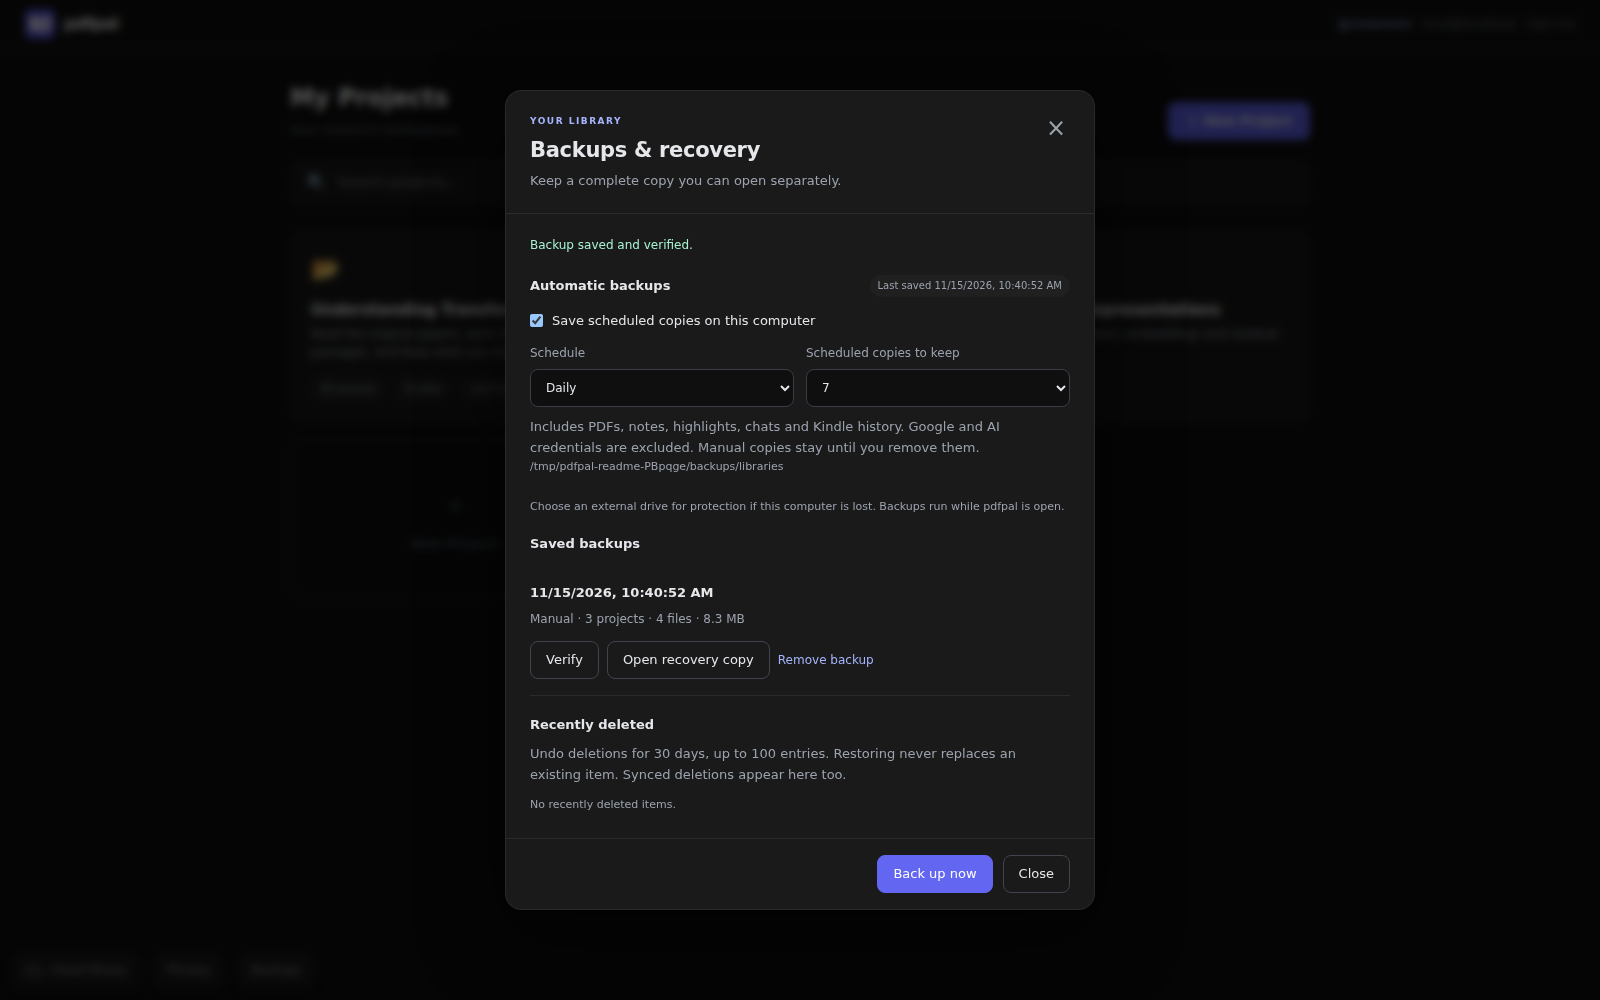
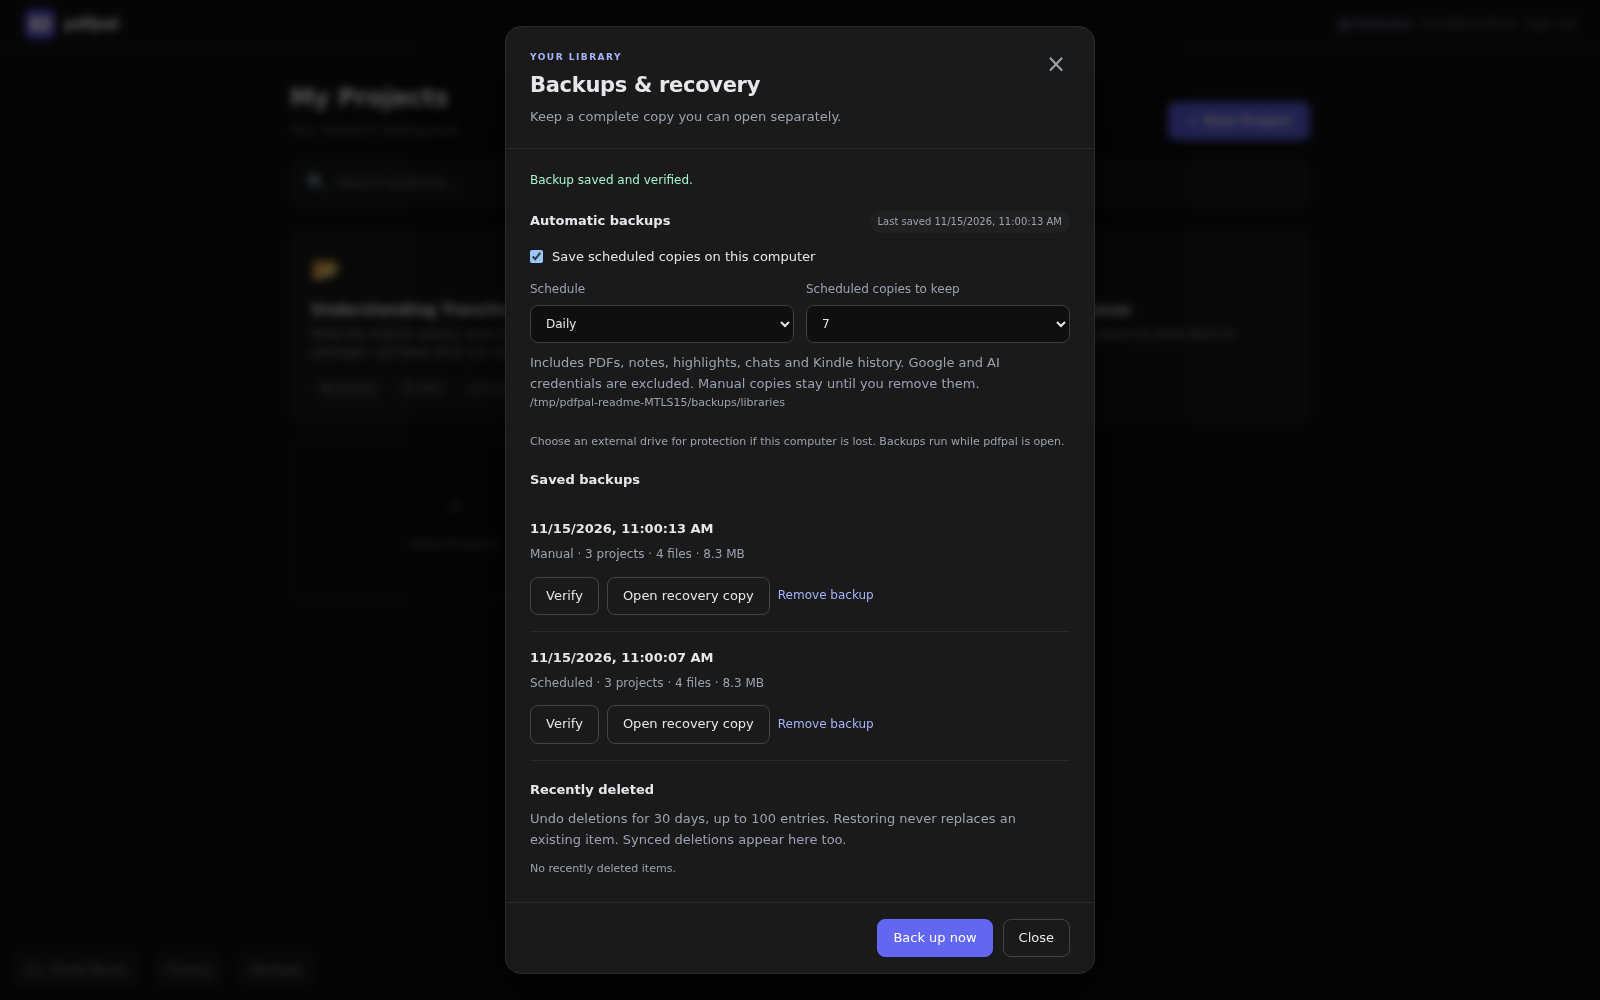
docs: cover the newly merged shared Linux menu

diff --git a/README.md b/README.md
@@ -120,7 +120,7 @@ The Windows installer is currently an **unsigned engineering preview**, so Windo
 
 The x86-64 Debian package targets Mint 22/Ubuntu 24.04, with X11 as the initial validation environment. Download the `.deb`, `pdfpal-linux-release.json` and `SHA256SUMS-linux.txt` from the [Linux preview release](https://github.com/andrepaim/pdfpal/releases/tag/linux-desktop-v2.8.0-beta.5.linux.1), then check `sha256sum -c SHA256SUMS-linux.txt` in the download directory. Newer engineering artifacts are available from [CI](https://github.com/andrepaim/pdfpal/actions/workflows/ci.yml), or build from source using the [Linux quickstart](docs/linux-quickstart.md). Linux publication is separate from the automatic Windows release pipeline.
 
-Install with `sudo apt install ./pdfpal-<version>-amd64.deb`, then open **pdfpal** from the application menu. The app includes its runtime and a separate `pdfpal-desktop-cli`; a system Node installation is unnecessary for those bundled tools. Node-based assistant CLIs may need their own runtime. Closing the Linux window quits the app. Account persistence requires a supported, unlocked OS keyring; local reading works without sign-in. Wayland, live account flows and clean-machine installation remain manual acceptance checks.
+Install with `sudo apt install ./pdfpal-<version>-amd64.deb`, then open **pdfpal** from the application menu. The app includes its runtime and a separate `pdfpal-desktop-cli`; a system Node installation is unnecessary for those bundled tools. Node-based assistant CLIs may need their own runtime. The shared **pdfpal menu** offers settings, backups, CLI setup, licenses and updates inside the native Linux window frame. **F10** opens it; **Ctrl+K** finds a project. Closing the Linux window quits the app. Account persistence requires a supported, unlocked OS keyring; local reading works without sign-in. Wayland, live account flows and clean-machine installation remain manual acceptance checks.
 
 ### Linux and WSL
 
@@ -174,7 +174,7 @@ After following a reference link within a PDF, click **Back to citation** in the
 
 ### Read a Kindle book
 
-1. Start pdfpal. On Windows, choose **pdfpal menu → Kindle extension**. In the browser reader, choose **Extension** on the projects home page (or **Kindle extension** in a project).
+1. Start pdfpal. In the Windows or Linux desktop app, choose **pdfpal menu → Kindle extension**. In the browser reader, choose **Extension** on the projects home page (or **Kindle extension** in a project).
 2. **Download Chrome extension**, extract it to a folder you will keep, and open `chrome://extensions`. Enable **Developer mode**, choose **Load unpacked**, and select the extracted folder containing `manifest.json`.
 3. Pin pdfpal to Chrome's toolbar. Open your book in [Kindle for Web](https://read.amazon.com/), refresh the tab, and click the pdfpal toolbar icon.
 4. Click **Connect to pdfpal**. In the local tab that opens, click **Allow connection**, then return to Kindle. Choose or create a project.
@@ -216,11 +216,11 @@ Select text in the PDF reader and choose **Explain visually** from its popup, or
 
 ### Backups, recovery & privacy
 
-Open **pdfpal menu → Backups & recovery** on Windows, or **Backups** at the lower left in the browser reader. Save a complete local library copy, including managed PDFs, notes, highlights, saved conversations and visual explanations. Automatic backups run daily by default while the app is open; choose every six hours, daily or weekly. Verify a backup or open a separate recovery copy while keeping your current library. **Recently deleted** retains up to 100 deletion entries for 30 days. See [backup and recovery](docs/backup-recovery.md).
+Open **pdfpal menu → Backups & recovery** in the Windows or Linux desktop app, or **Backups** at the lower left in the browser reader. Save a complete local library copy, including managed PDFs, notes, highlights, saved conversations and visual explanations. Automatic backups run daily by default while the app is open; choose every six hours, daily or weekly. Verify a backup or open a separate recovery copy while keeping your current library. **Recently deleted** retains up to 100 deletion entries for 30 days. See [backup and recovery](docs/backup-recovery.md).
 
 ![Current browser backup settings showing a verified local library copy and recovery controls](screenshots/backups-recovery.png)
 
-**Privacy & diagnostics** in the Windows app menu (or **Privacy** in the browser) separates local diagnostics, optional usage analytics and default-off error sharing. Shared error reports exclude documents, conversations, titles, filenames and raw error messages. See [error reporting](docs/error-reports.md).
+**Privacy & diagnostics** in the desktop app menu (or **Privacy** in the browser) separates local diagnostics, optional usage analytics and default-off error sharing. Shared error reports exclude documents, conversations, titles, filenames and raw error messages. See [error reporting](docs/error-reports.md).
 
 ### Sources & Discovery
 

diff --git a/docs/documentation-review.md b/docs/documentation-review.md
@@ -1,6 +1,6 @@
 # Documentation review — November 15, 2026
 
-Reviewed the default branch, `master`, starting at `a402cec` (PRs through #20). Checked the README, desktop/extension guides, CLI skill, contributor guide, current runbooks, plans/evidence, version/build scripts and the reader implementation. Historical milestone receipts keep their dates and measured results; unmerged Mac/mobile/share-card work is not presented as shipped.
+Reviewed the default branch, `master`, starting at `a402cec` (PRs through #20), then incorporating `7473cff` (PR #22, shared Linux app menu). Checked the README, desktop/extension guides, CLI skill, contributor guide, current runbooks, plans/evidence, version/build scripts and the reader implementation. Historical milestone receipts keep their dates and measured results; unmerged Mac/mobile/share-card work is not presented as shipped.
 
 | Finding | Improvement |
 | --- | --- |
@@ -8,7 +8,7 @@ Reviewed the default branch, `master`, starting at `a402cec` (PRs through #20). 
 | The README still showed the original visual format and its old export | Captured the current figure renderer, progressive token grids and expanded query/key plot; replaced the downloadable HTML using the app's own exporter. |
 | New visual controls and persistence limits were hard to discover | Added a [visual guide](visual-explanations.md), covering progress segments, arrow keys, named details, expansion, transcripts, offline export, retry and local-only assets. Updated the companion guide's obsolete control names. |
 | The dictionary had only a feature-list mention | Added a [reader guide](reader-guide.md) and a dictionary screenshot, including English-only scope, compound/base-form behavior and no-provider lookup. |
-| Windows instructions named old installer versions; Linux installation was buried | Replaced stale “current” version examples, documented Linux preview release downloads and CI artifacts, runtime/CLI/lifecycle/keyring differences, and corrected the platform architecture. Kept experimental/manual gates explicit. |
+| Windows instructions named old installer versions; Linux installation was buried | Replaced stale “current” version examples, documented Linux preview release downloads and CI artifacts, runtime/CLI/lifecycle/keyring differences, and corrected the platform architecture. Included the newly merged Linux shared menu, keyboard navigation and native-frame/recovery-menu behavior. Kept experimental/manual gates explicit. |
 | The README omitted the new account-library choice and mismatch recovery | Documented one library per Google account, explicit legacy selection and separate restore without merging or deleting original local work. Updated recovery/privacy entry points for desktop/browser. |
 | The shipped automation skill assumed every desktop was Windows | Added a Linux reference and routing to `pdfpal-desktop-cli`, retaining fingerprint guards, operation receipts and note concurrency checks. |
 | Contributor guidance omitted merged work and understated CI | Updated the developer guide for Linux transport, current feature scope and Firebase/extension/package/platform checks. Removed the README's inaccurate claim that reading subprocesses can browse the web. |

diff --git a/docs/linux-quickstart.md b/docs/linux-quickstart.md
@@ -29,7 +29,7 @@ Electron's renderer sandbox remains enabled. Do not launch with `--no-sandbox`. 
 
 The shared default library stays at `~/.pdfpal`. Desktop configuration lives at `${XDG_CONFIG_HOME:-~/.config}/pdfpal-desktop`; a `PDFPAL_DESKTOP_PROFILE` or `--profile` override selects a separate profile. A profile registers its active library and authenticated local CLI endpoint. Avoid concurrently opening the same SQLite library from multiple app instances or standalone servers.
 
-Linux exposes application actions in the native menu, including assistant setup, CLI setup, software updates, diagnostics and quitting. A tray icon is optional because support varies by desktop. Closing the Linux window quits safely rather than depending on an invisible tray icon. Background startup is opt-in under **Start at login**. It creates a user-owned XDG autostart desktop entry and removes only pdfpal's managed entry when disabled; the library remains intact. On Linux a login launch keeps a visible window available.
+Linux keeps the window manager’s native title bar and controls, with the compact **pdfpal menu** toolbar inside the frame. The toolbar provides reading history, project search, cloud access and help, sharing the Windows app’s actions without drawing Windows caption buttons. **F10** opens the menu; arrow keys/Home/End navigate it and Escape closes it. **Ctrl+K** finds a project, **Alt+Left/Right** retraces reading history, **Ctrl+,** opens AI settings, and **Ctrl+Q** quits. Backups, privacy/diagnostics, CLI setup, Kindle, updates, licenses and **Start at login** are in this menu. The traditional native menu remains available during startup/recovery and is hidden when the reader’s shared menu is active. A tray icon is optional because support varies by desktop. Closing the Linux window quits safely rather than depending on an invisible tray icon. Background startup is opt-in under **Start at login**. It creates a user-owned XDG autostart desktop entry and removes only pdfpal's managed entry when disabled; the library remains intact. On Linux a login launch keeps a visible window available.
 
 ## Assistants and account protection
 

diff --git a/desktop/README.md b/desktop/README.md
@@ -1,6 +1,6 @@
 # pdfpal desktop preview
 
-The Linux engineering preview now builds an unpacked application and Debian installer, with native menus, XDG preferences and opt-in autostart, secure keyring checks and an independent bundled CLI. See the [Linux quickstart](../docs/linux-quickstart.md), [milestone plan](../docs/linux-desktop-plan.md), and [acceptance results](../docs/linux-desktop-results.md). The Windows build and release procedures below remain in place.
+The Linux engineering preview now builds an unpacked application and Debian installer, with a compact shared app menu inside its native window frame, XDG preferences and opt-in autostart, secure keyring checks and an independent bundled CLI. See the [Linux quickstart](../docs/linux-quickstart.md), [milestone plan](../docs/linux-desktop-plan.md), and [acceptance results](../docs/linux-desktop-results.md). The Windows build and release procedures below remain in place.
 
 The Windows desktop includes a per-user installer, integrated app menu, direct ChatGPT sign-in, assistant discovery, bundled CLI/skill setup, local recovery and optional cloud sync. The milestone results below record how its installer and lifecycle were validated. See the [Windows quickstart](../docs/windows-quickstart.md), [M3 results](../docs/windows-m3-results.md), and [implementation plan](../docs/windows-desktop-plan.md).
 

diff --git a/docs/README.md b/docs/README.md
@@ -36,7 +36,7 @@ The current desktop targets are Windows x64 and a Linux x86-64 engineering previ
 
 Plans mix completed milestones with future work; use the guides above for current behavior. Results and evidence are dated receipts, not statements that the current build has passed every manual acceptance gate.
 
-- Desktop: [Windows plan](windows-desktop-plan.md), [M0](windows-m0-results.md), [M1](windows-m1-results.md), [M2](windows-m2-results.md), [M3](windows-m3-results.md), [M4](windows-m4-results.md); [Linux plan](linux-desktop-plan.md) and [results](linux-desktop-results.md).
+- Desktop: [Windows plan](windows-desktop-plan.md), [M0](windows-m0-results.md), [M1](windows-m1-results.md), [M2](windows-m2-results.md), [M3](windows-m3-results.md), [M4](windows-m4-results.md); [Linux plan](linux-desktop-plan.md), [results](linux-desktop-results.md) and [shared app-menu implementation/evidence](linux-menu-plan.md).
 - Desktop integration: [ChatGPT plan](windows-chatgpt-plan.md) and [results](windows-chatgpt-results.md); [CLI/skill plan](windows-cli-skill-plan.md).
 - Reader: [beta and retrieval plan](reader-beta-and-retrieval-plan.md), [retrieval baseline](retrieval-baseline.md).
 - Kindle: [original companion plan](kindle-browser-extension-plan.md), [first-class book tasks](extension-first-class-tasks.md).

diff --git a/docs/backup-recovery.md b/docs/backup-recovery.md
@@ -1,6 +1,6 @@
 # Library backups and recovery
 
-Open **pdfpal menu → Backups & recovery** on Windows, the native app menu on Linux, or **Backups** at the lower left of the browser reader. Backups are local and work without Google sign-in, a server account, or Firebase billing.
+Open **pdfpal menu → Backups & recovery** in the Windows or Linux desktop app, or **Backups** at the lower left of the browser reader. Backups are local and work without Google sign-in, a server account, or Firebase billing.
 
 ## Save and move a full library
 
